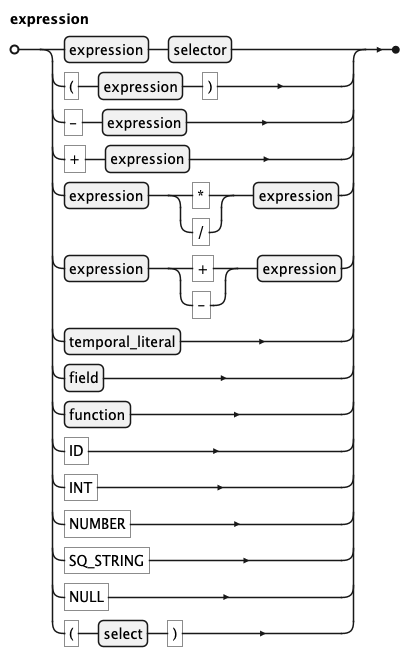
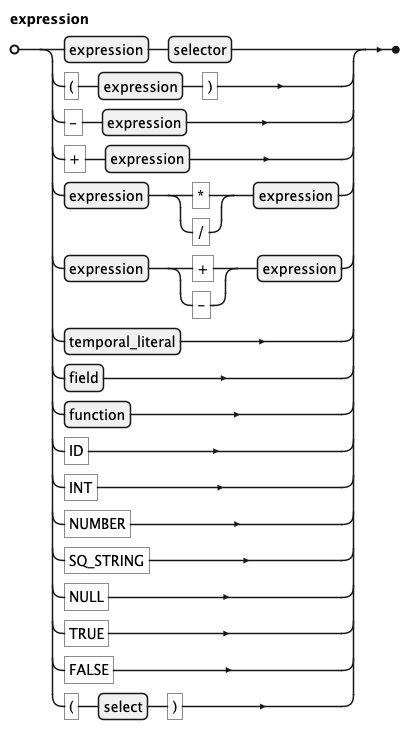
Add the boolean literals TRUE and FALSE
KQL and IQL get TRUE and FALSE as expressions, typed BOOLEAN (Expression.getBool).
Rendering follows how the other operand stores a boolean: 1/0 or 'Y'/'N' against a
BOOLEAN_FROM_INTEGER / BOOLEAN_FROM_TEXT column (BooleanEncodings), the keywords where
the engine has them, 1/0 on SQL Server, SQLite and Oracle (SqlDialect.booleanLiteral,
booleanLiteralPredicate). A literal on the left of a comparison is not adapted.

Changed region(s): [[0.0, 0.0, 0.9976, 0.9688]]

diff --git a/core/src/main/java/ai/koryki/iql/typing/BooleanEncodings.java b/core/src/main/java/ai/koryki/iql/typing/BooleanEncodings.java
@@ -1,0 +1,60 @@
+/*
+ * Copyright 2025-2026 Johannes Zemlin
+ *
+ * Licensed under the Apache License, Version 2.0 (the "License");
+ * you may not use this file except in compliance with the License.
+ * You may obtain a copy of the License at
+ *
+ *     http://www.apache.org/licenses/LICENSE-2.0
+ *
+ * Unless required by applicable law or agreed to in writing,
+ * software distributed under the License is distributed on an
+ * "AS IS" BASIS, WITHOUT WARRANTIES OR CONDITIONS OF ANY
+ * KIND, either express or implied.  See the License for the
+ * specific language governing permissions and limitations
+ * under the License.
+ */
+package ai.koryki.iql.typing;
+
+import ai.koryki.catalog.types.CoreTypeEncoding;
+import ai.koryki.catalog.types.CoreTypeFamily;
+import ai.koryki.catalog.types.TypeDescriptor;
+import ai.koryki.catalog.types.TypeEncoding;
+import ai.koryki.iql.query.Expression;
+import java.util.Optional;
+
+/**
+ * Rendering support for column-level BOOLEAN encodings, the comparison dual of {@code
+ * booleanPredicate}. A boolean column may physically hold 0/1 ({@code BOOLEAN_FROM_INTEGER}) or
+ * 'Y'/'N' ({@code BOOLEAN_FROM_TEXT}); a {@code TRUE} or {@code FALSE} literal compared with it
+ * must be written the way the column stores it, so both operands share one physical
+ * representation: {@code c.flag = TRUE} is {@code c.flag = 1} on the first and {@code c.flag =
+ * 'Y'} on the second.
+ *
+ * <p>A native boolean column gives empty: the dialect writes the literal itself.
+ */
+public final class BooleanEncodings {
+
+    private BooleanEncodings() {}
+
+    /**
+     * {@code operand} (a boolean literal) in {@code columnType}'s storage encoding, or empty when
+     * it does not apply: not a boolean literal, not a BOOLEAN column, or a native one.
+     */
+    public static Optional<String> literalOperand(TypeDescriptor columnType, Expression operand) {
+        if (columnType == null
+                || operand.getBool() == null
+                || !CoreTypeFamily.BOOLEAN.equals(columnType.getTypeFamily())) {
+            return Optional.empty();
+        }
+        TypeEncoding enc = columnType.getTypeEncoding();
+        boolean value = operand.getBool();
+        if (CoreTypeEncoding.BOOLEAN_FROM_INTEGER.equals(enc)) {
+            return Optional.of(value ? "1" : "0");
+        }
+        if (CoreTypeEncoding.BOOLEAN_FROM_TEXT.equals(enc)) {
+            return Optional.of(value ? "'Y'" : "'N'");
+        }
+        return Optional.empty();
+    }
+}

diff --git a/core/src/main/java/ai/koryki/iql/SqlDialect.java b/core/src/main/java/ai/koryki/iql/SqlDialect.java
@@ -27,6 +27,7 @@ import ai.koryki.iql.functions.StandardFunctions;
 import ai.koryki.iql.query.Duration;
 import ai.koryki.iql.query.Expression;
 import ai.koryki.iql.query.Function;
+import ai.koryki.iql.typing.BooleanEncodings;
 import ai.koryki.iql.typing.EpochEncodings;
 import ai.koryki.iql.typing.InstantEncodings;
 import ai.koryki.iql.typing.IntervalEncodings;
@@ -638,6 +639,24 @@ public interface SqlDialect {
      */
     default String textLiteral(String quoted) {
         return quoted;
+    }
+
+    /**
+     * The SQL for a {@code TRUE} or {@code FALSE} literal. ANSI has the keywords; an engine with no
+     * boolean value (SQL Server's BIT, Oracle before 23ai, SQLite) writes 1 and 0. Against a
+     * column stored as 0/1 or 'Y'/'N' the renderer does not ask: it writes the column's own
+     * encoding (see {@code BooleanEncodings}).
+     */
+    default String booleanLiteral(boolean value) {
+        return value ? "TRUE" : "FALSE";
+    }
+
+    /**
+     * A boolean literal standing alone as a condition, {@code FILTER TRUE}: the literal run through
+     * {@link #booleanPredicate}, which is how an engine that needs a comparison there gets one.
+     */
+    default String booleanLiteralPredicate(boolean value) {
+        return booleanPredicate(booleanLiteral(value), TypeDescriptor.BOOLEAN);
     }
 
     /**
@@ -1397,6 +1416,7 @@ public interface SqlDialect {
                 || e.getLocalDate() != null
                 || e.getLocalTime() != null
                 || e.getLocalDateTime() != null
+                || e.getBool() != null
                 || e.isNull();
     }
 
@@ -1500,6 +1520,12 @@ public interface SqlDialect {
             TypeDescriptor leftType,
             TypeDescriptor rightType,
             int indent) {
+        // BOOLEAN column vs TRUE/FALSE: write the literal the way the column stores it (1/0 or
+        // 'Y'/'N'); a native column falls through to the dialect's own literal.
+        java.util.Optional<String> bool = BooleanEncodings.literalOperand(leftType, expression);
+        if (bool.isPresent()) {
+            return bool.get();
+        }
         // INTERVAL column vs duration literal: render the duration in the column's encoding
         // (numeric count / ISO string), so both operands share one physical representation.
         java.util.Optional<String> interval =

diff --git a/core/src/main/java/ai/koryki/iql/SqlSelectRenderer.java b/core/src/main/java/ai/koryki/iql/SqlSelectRenderer.java
@@ -698,6 +698,9 @@ public class SqlSelectRenderer {
                     return predicateSql;
                 }
             }
+            if (bare && left.getBool() != null) {
+                return dialect.booleanLiteralPredicate(left.getBool());
+            }
             TypeDescriptor leftType = resolveType(left);
             if (bare) {
                 // A boolean column or other boolean expression standing alone as a predicate.
@@ -1254,6 +1257,8 @@ public class SqlSelectRenderer {
             return wallClockWrapped(col, expression);
         } else if (expression.isNull()) {
             return "NULL";
+        } else if (expression.getBool() != null) {
+            return dialect.booleanLiteral(expression.getBool());
         } else if (expression.getLogical() != null) {
             return toSqlInline(expression.getLogical(), indent);
         } else if (expression.getSelection() != null) {

diff --git a/core/src/main/java/ai/koryki/iql/query/Expression.java b/core/src/main/java/ai/koryki/iql/query/Expression.java
@@ -33,6 +33,9 @@ public class Expression {
     private LocalTime localTime;
     private boolean isNull;
 
+    /** A boolean literal, {@code TRUE} or {@code FALSE}; null when the expression is something else. */
+    private Boolean bool;
+
     private Duration duration;
 
     /** A value with postfix selectors: {@code c.tags@1}, {@code c.items@1@sku}. */
@@ -130,6 +133,14 @@ public class Expression {
 
     public void setNull(boolean aNull) {
         isNull = aNull;
+    }
+
+    public Boolean getBool() {
+        return bool;
+    }
+
+    public void setBool(Boolean bool) {
+        this.bool = bool;
     }
 
     public Duration getDuration() {

diff --git a/oracle/src/main/java/ai/koryki/oracle/iql/OracleDialect.java b/oracle/src/main/java/ai/koryki/oracle/iql/OracleDialect.java
@@ -122,6 +122,18 @@ public class OracleDialect implements SqlDialect {
                     "view",
                     "whenever");
 
+    /** Before 23ai Oracle has no boolean value; 1 and 0 are what a flag column holds. */
+    @Override
+    public String booleanLiteral(boolean value) {
+        return value ? "1" : "0";
+    }
+
+    /** ... and a bare 1 is no condition there: say it as a comparison. */
+    @Override
+    public String booleanLiteralPredicate(boolean value) {
+        return value ? "1 = 1" : "1 = 0";
+    }
+
     @Override
     public boolean isReserved(String name) {
         return SqlDialect.super.isReserved(name)

diff --git a/sqlite/src/main/java/ai/koryki/sqlite/iql/SqliteDialect.java b/sqlite/src/main/java/ai/koryki/sqlite/iql/SqliteDialect.java
@@ -89,6 +89,12 @@ public class SqliteDialect implements SqlDialect {
         return "json_extract(" + json + ", '$')";
     }
 
+    /** SQLite has no boolean values: true and false are 1 and 0, and a bare 1 is a condition. */
+    @Override
+    public String booleanLiteral(boolean value) {
+        return value ? "1" : "0";
+    }
+
     /** {@code ->>} answers 1 and 0 for JSON true and false, and the text for a JSON string. */
     @Override
     public String jsonBoolean(String scalar) {

diff --git a/core/src/main/java/ai/koryki/iql/IQLQueryMapper.java b/core/src/main/java/ai/koryki/iql/IQLQueryMapper.java
@@ -391,6 +391,10 @@ public class IQLQueryMapper {
             Expression bean = build(expression, Expression::new);
             bean.setNull(true);
             return bean;
+        } else if (expression.TRUE() != null || expression.FALSE() != null) {
+            Expression bean = build(expression, Expression::new);
+            bean.setBool(expression.TRUE() != null);
+            return bean;
         } else {
             throw new KorykiaiException();
         }

diff --git a/core/src/main/java/ai/koryki/kql/KQLQueryMapper.java b/core/src/main/java/ai/koryki/kql/KQLQueryMapper.java
@@ -578,6 +578,10 @@ public class KQLQueryMapper {
             Expression bean = build(expression, Expression::new);
             bean.setNull(true);
             return bean;
+        } else if (expression.TRUE() != null || expression.FALSE() != null) {
+            Expression bean = build(expression, Expression::new);
+            bean.setBool(expression.TRUE() != null);
+            return bean;
         } else {
             throw new KorykiaiException();
         }

diff --git a/mssql/src/main/java/ai/koryki/mssql/iql/MssqlDialect.java b/mssql/src/main/java/ai/koryki/mssql/iql/MssqlDialect.java
@@ -956,6 +956,12 @@ public class MssqlDialect implements SqlDialect {
         return base.equals(sql) ? sql + " = 1" : base;
     }
 
+    /** BIT has no TRUE and FALSE keywords; 1 and 0 are its values. */
+    @Override
+    public String booleanLiteral(boolean value) {
+        return value ? "1" : "0";
+    }
+
     /** T-SQL division truncates when both operands are integers. */
     @Override
     public String castToDecimal(String sql) {

diff --git a/core/src/main/java/ai/koryki/kql/KQLFormatter.java b/core/src/main/java/ai/koryki/kql/KQLFormatter.java
@@ -568,6 +568,10 @@ public class KQLFormatter {
                 return expression.SQ_STRING().getText();
             } else if (expression.NULL() != null) {
                 return "NULL";
+            } else if (expression.TRUE() != null) {
+                return "TRUE";
+            } else if (expression.FALSE() != null) {
+                return "FALSE";
             } else {
                 throw new KorykiaiException();
             }

diff --git a/core/src/main/java/ai/koryki/iql/typing/ExpressionTypeResolver.java b/core/src/main/java/ai/koryki/iql/typing/ExpressionTypeResolver.java
@@ -145,6 +145,8 @@ public class ExpressionTypeResolver {
             return TypeDescriptor.TIME;
         } else if (expression.getDuration() != null) {
             return TypeDescriptor.INTERVAL;
+        } else if (expression.getBool() != null) {
+            return TypeDescriptor.BOOLEAN;
         } else if (expression.isNull()) {
             return TypeDescriptor.NULL;
         } else {

diff --git a/core/src/main/java/ai/koryki/iql/IQLSerializer.java b/core/src/main/java/ai/koryki/iql/IQLSerializer.java
@@ -453,6 +453,8 @@ public class IQLSerializer {
             return expression.getDuration().toString();
         } else if (expression.isNull()) {
             b.append("NULL");
+        } else if (expression.getBool() != null) {
+            b.append(expression.getBool() ? "TRUE" : "FALSE");
         } else {
             throw new KorykiaiException();
         }
